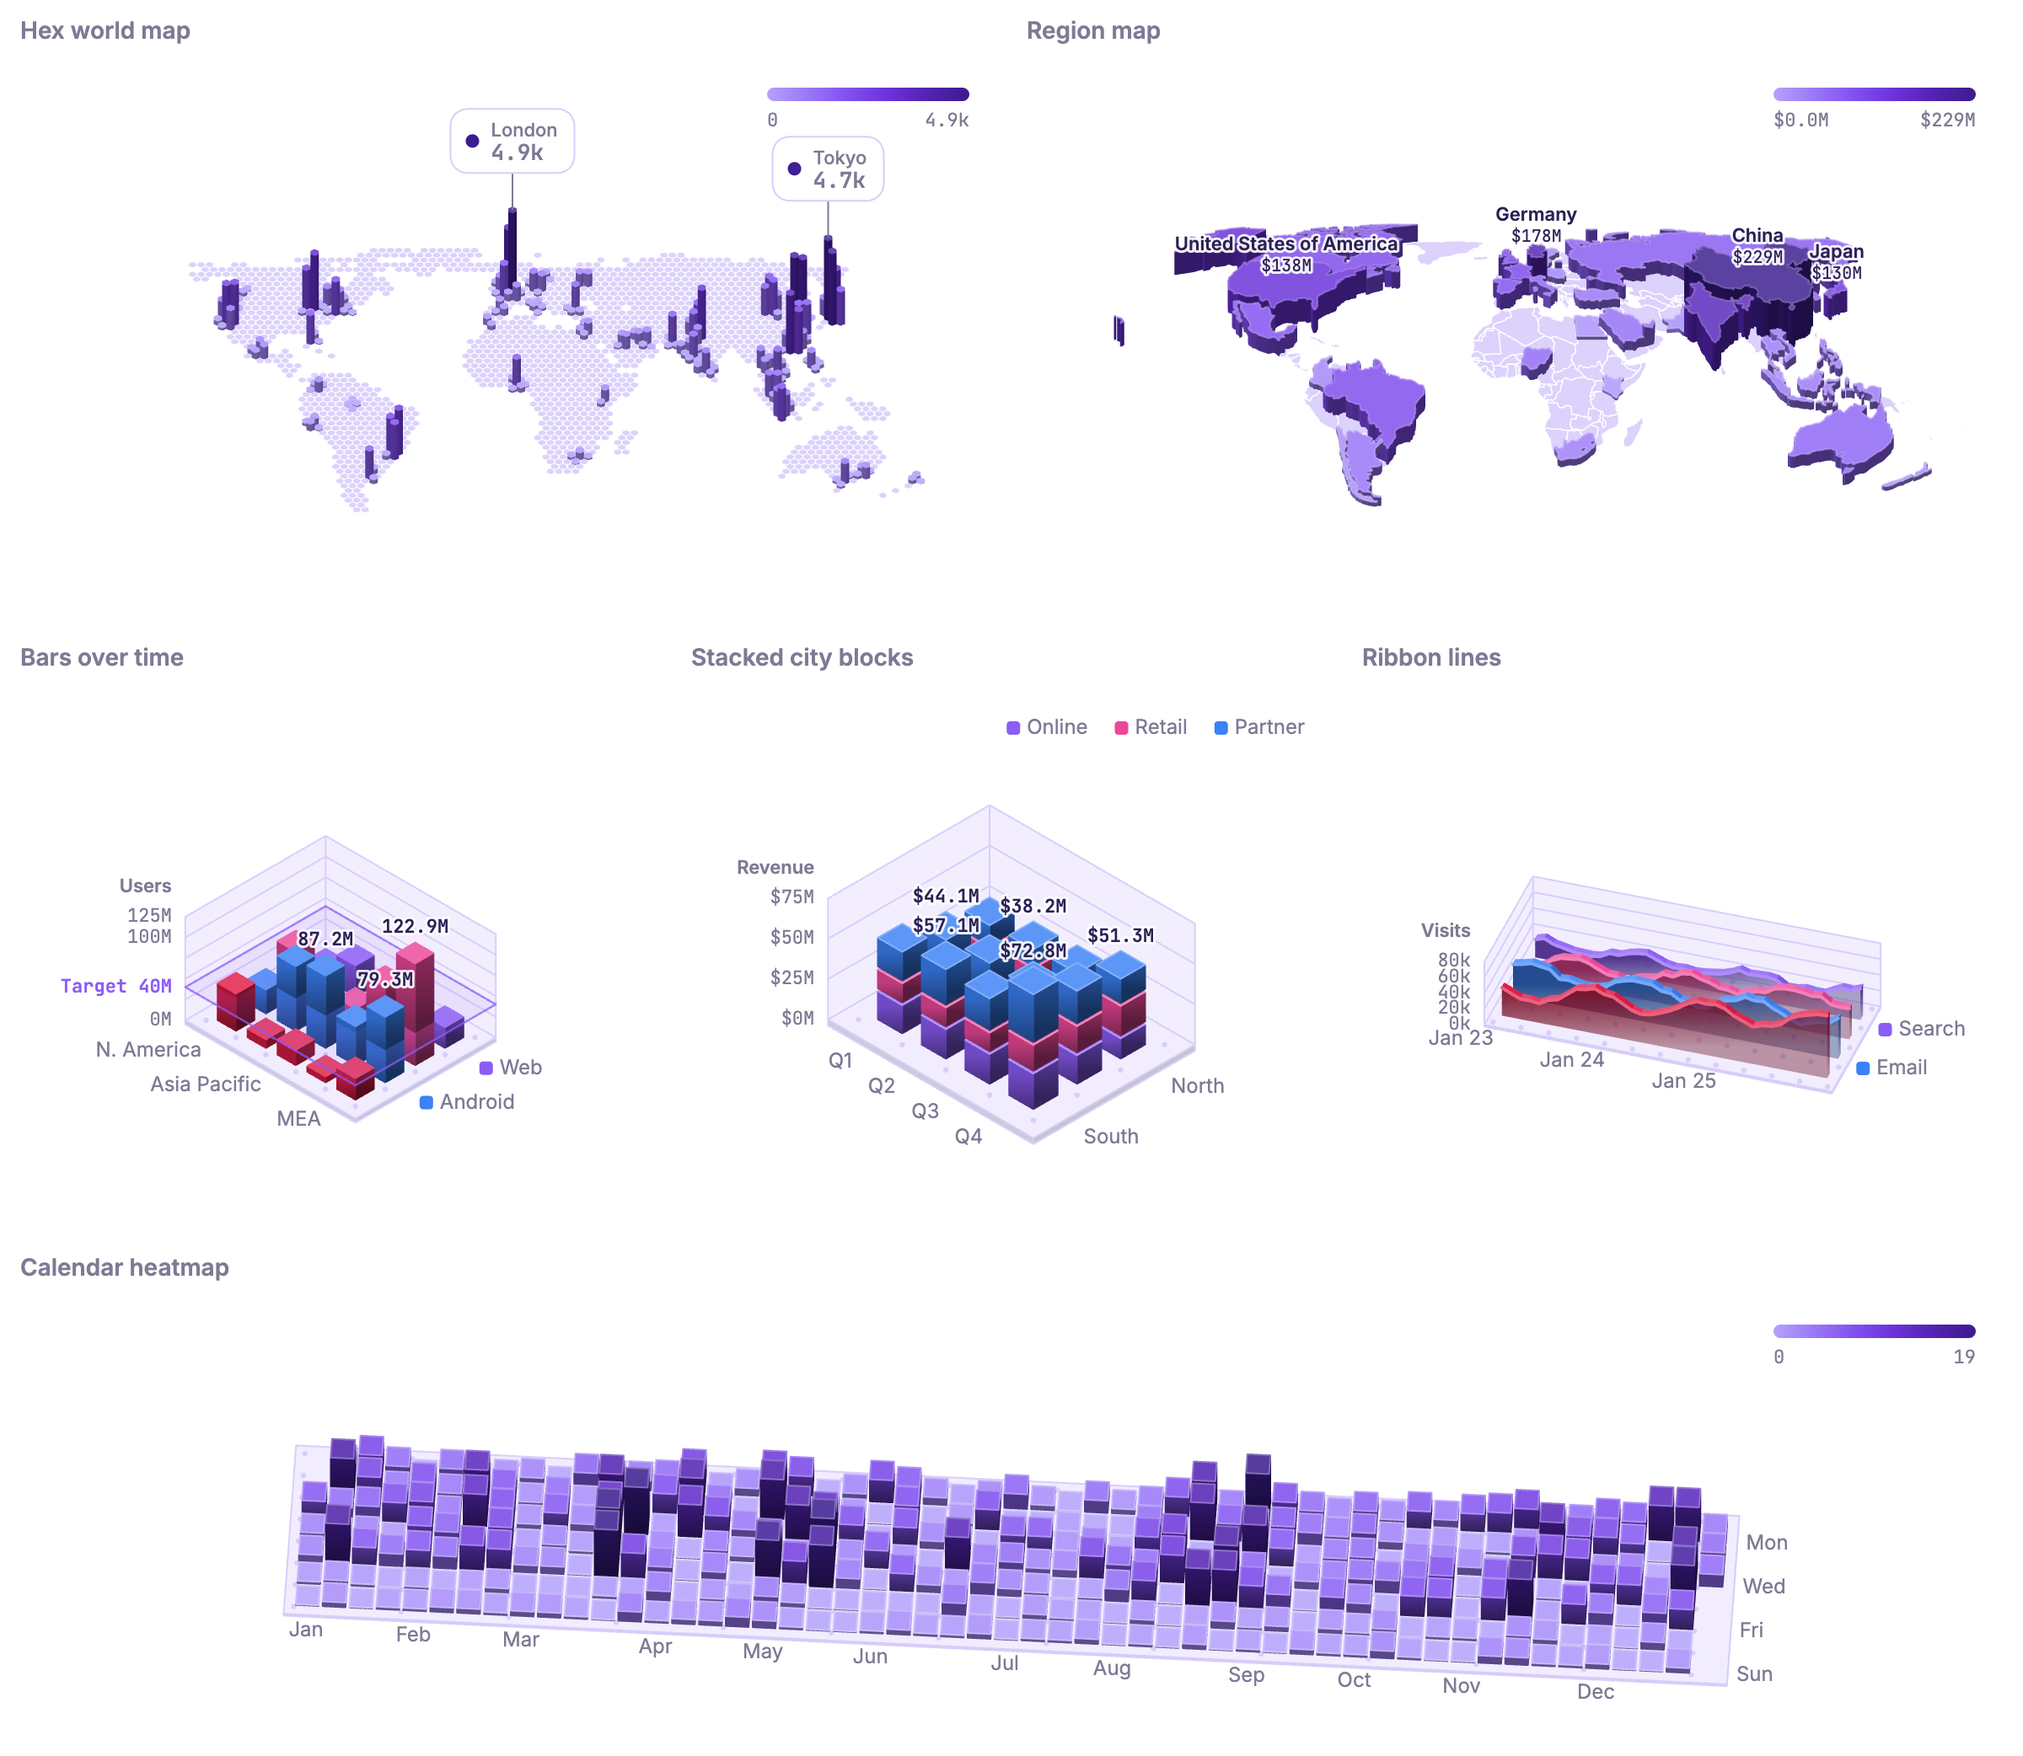
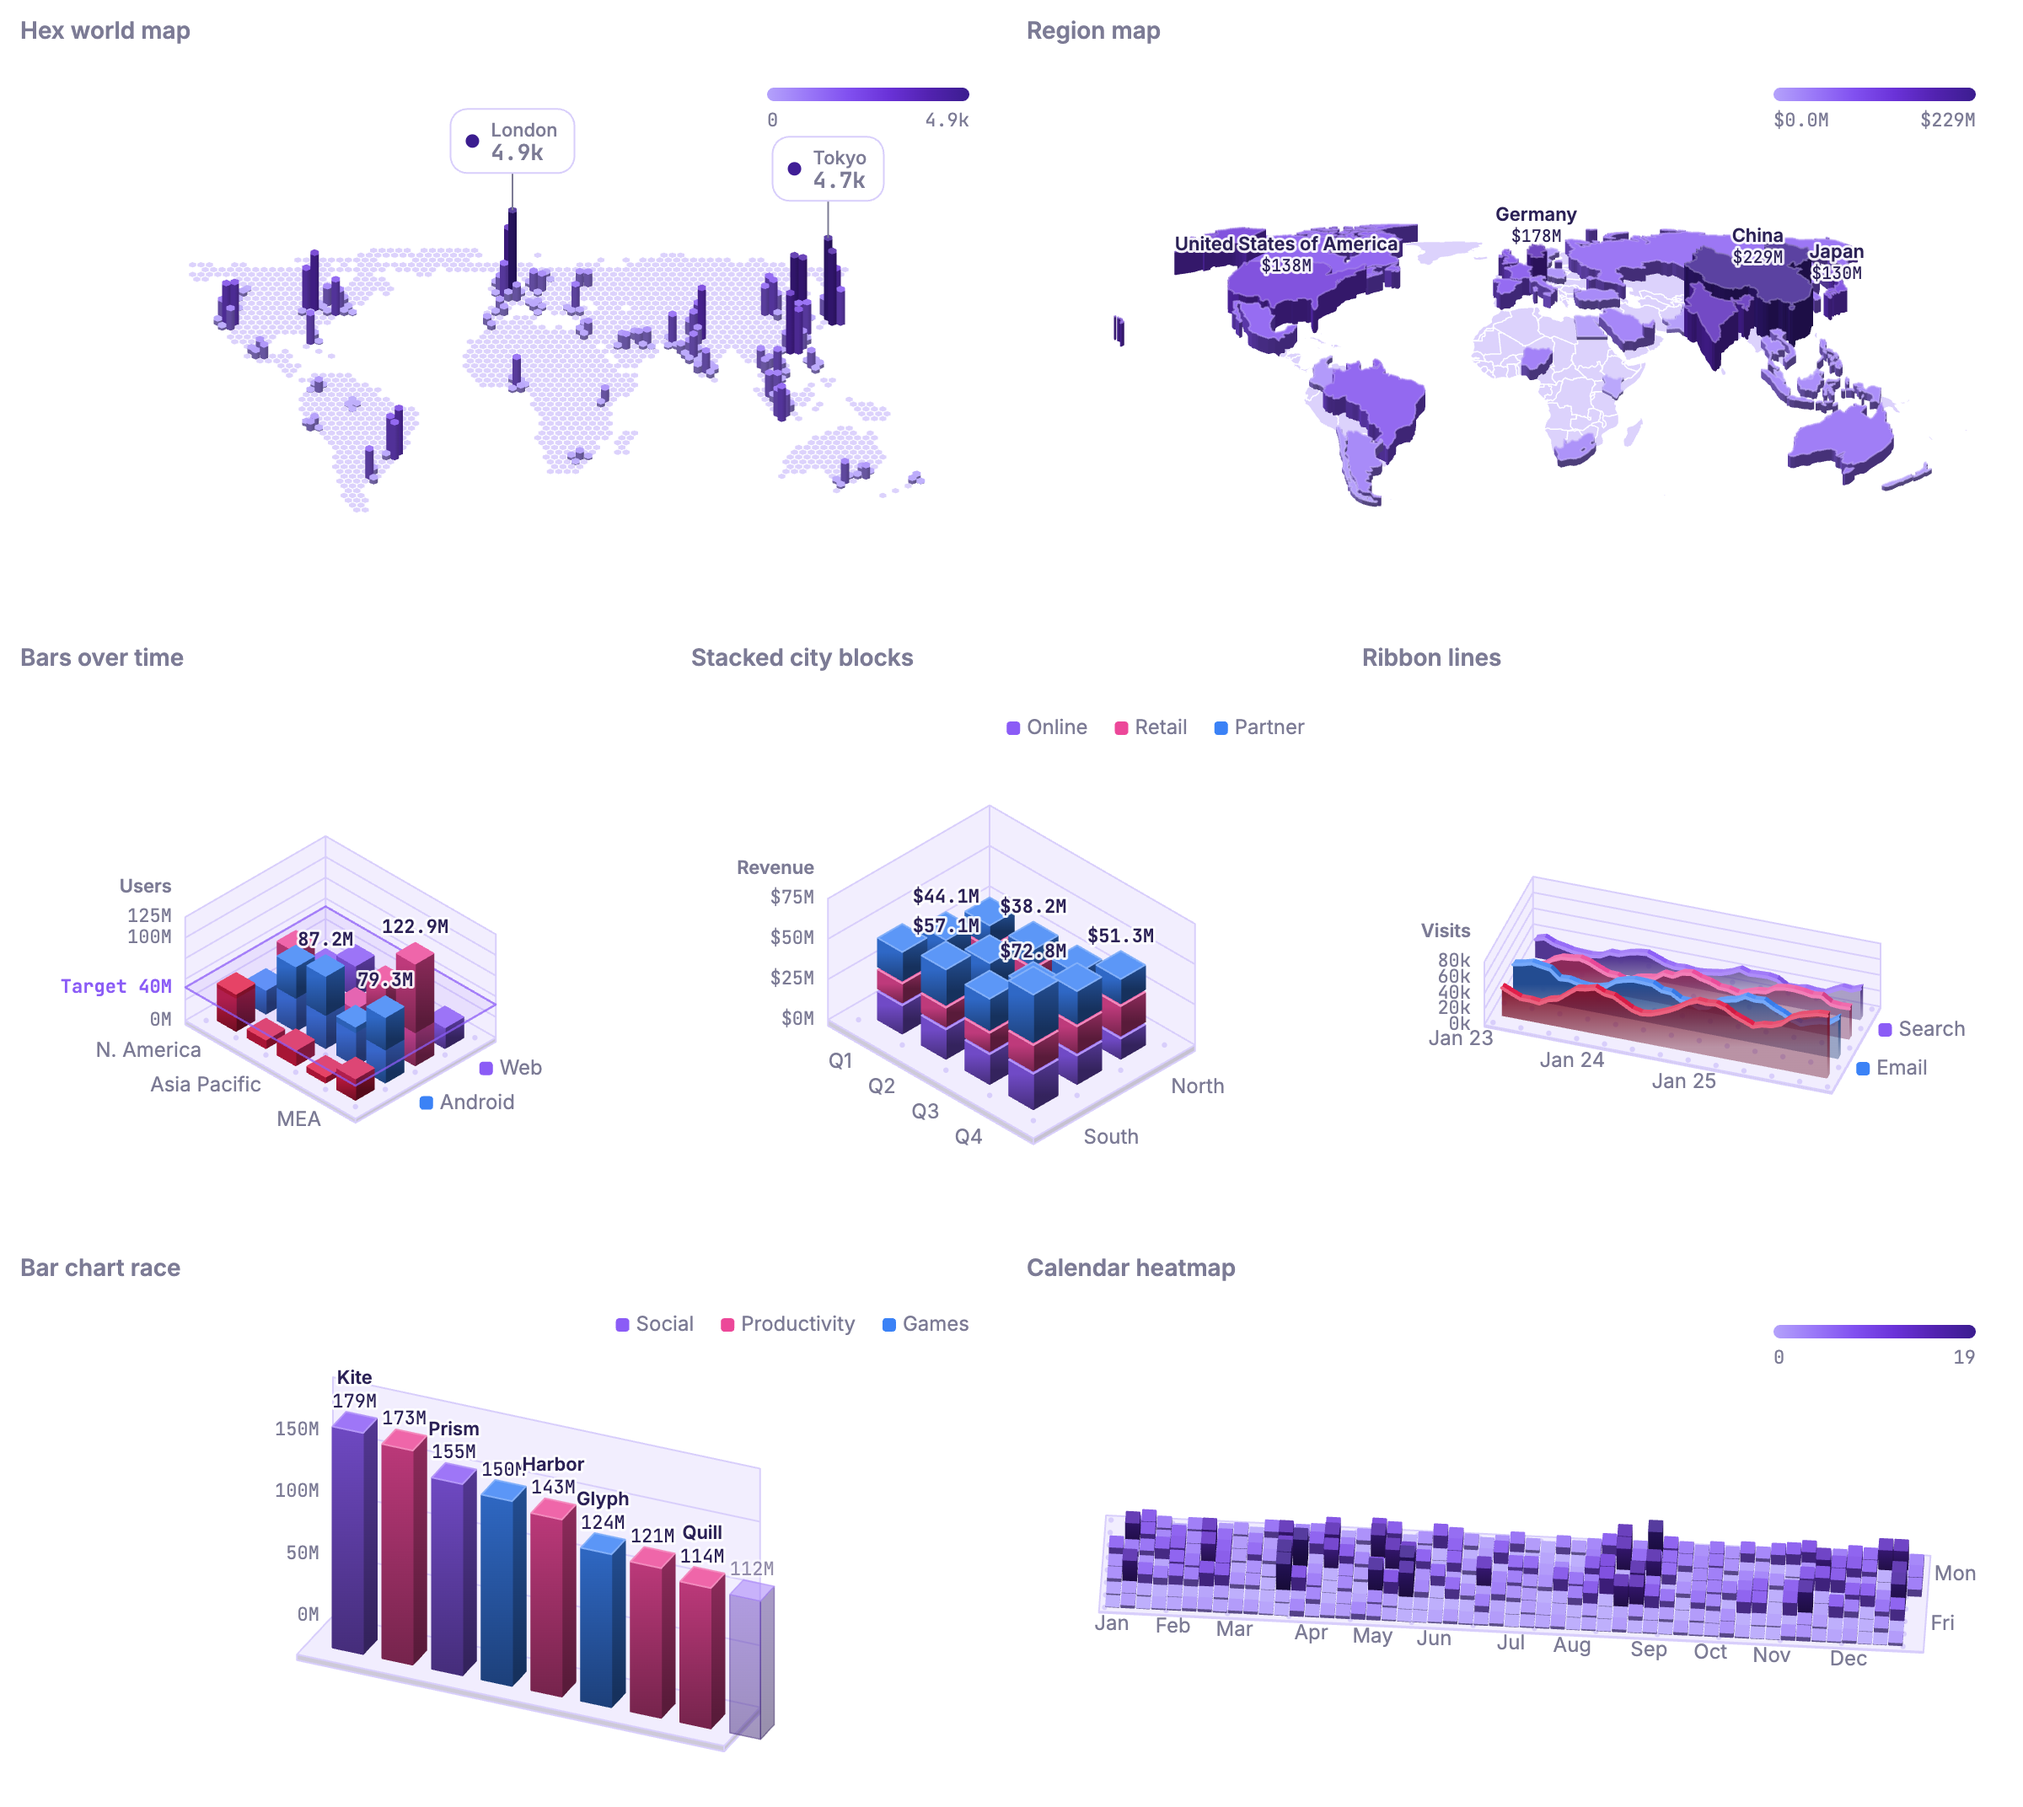
Update README preview: add the bar chart race
The bottom row now pairs the bar chart race with the calendar heatmap, and
the image reflects the latest region map (crisper shapes, round joins).

diff --git a/examples/showcase.html b/examples/showcase.html
@@ -73,8 +73,8 @@
         ['ribbon', PAD + (third + GAP) * 2, y + LABEL, third, 330],
       );
       y += LABEL + 330 + GAP;
-      layout.push(['calendar', PAD, y + LABEL, inner, 270]);
-      y += LABEL + 270;
+      layout.push(['race', PAD, y + LABEL, half, 300], ['calendar', PAD + half + GAP, y + LABEL, half, 300]);
+      y += LABEL + 300;
       const H = y + PAD;
 
       const charts = layout.map(([id, x, top, w, h]) => {
